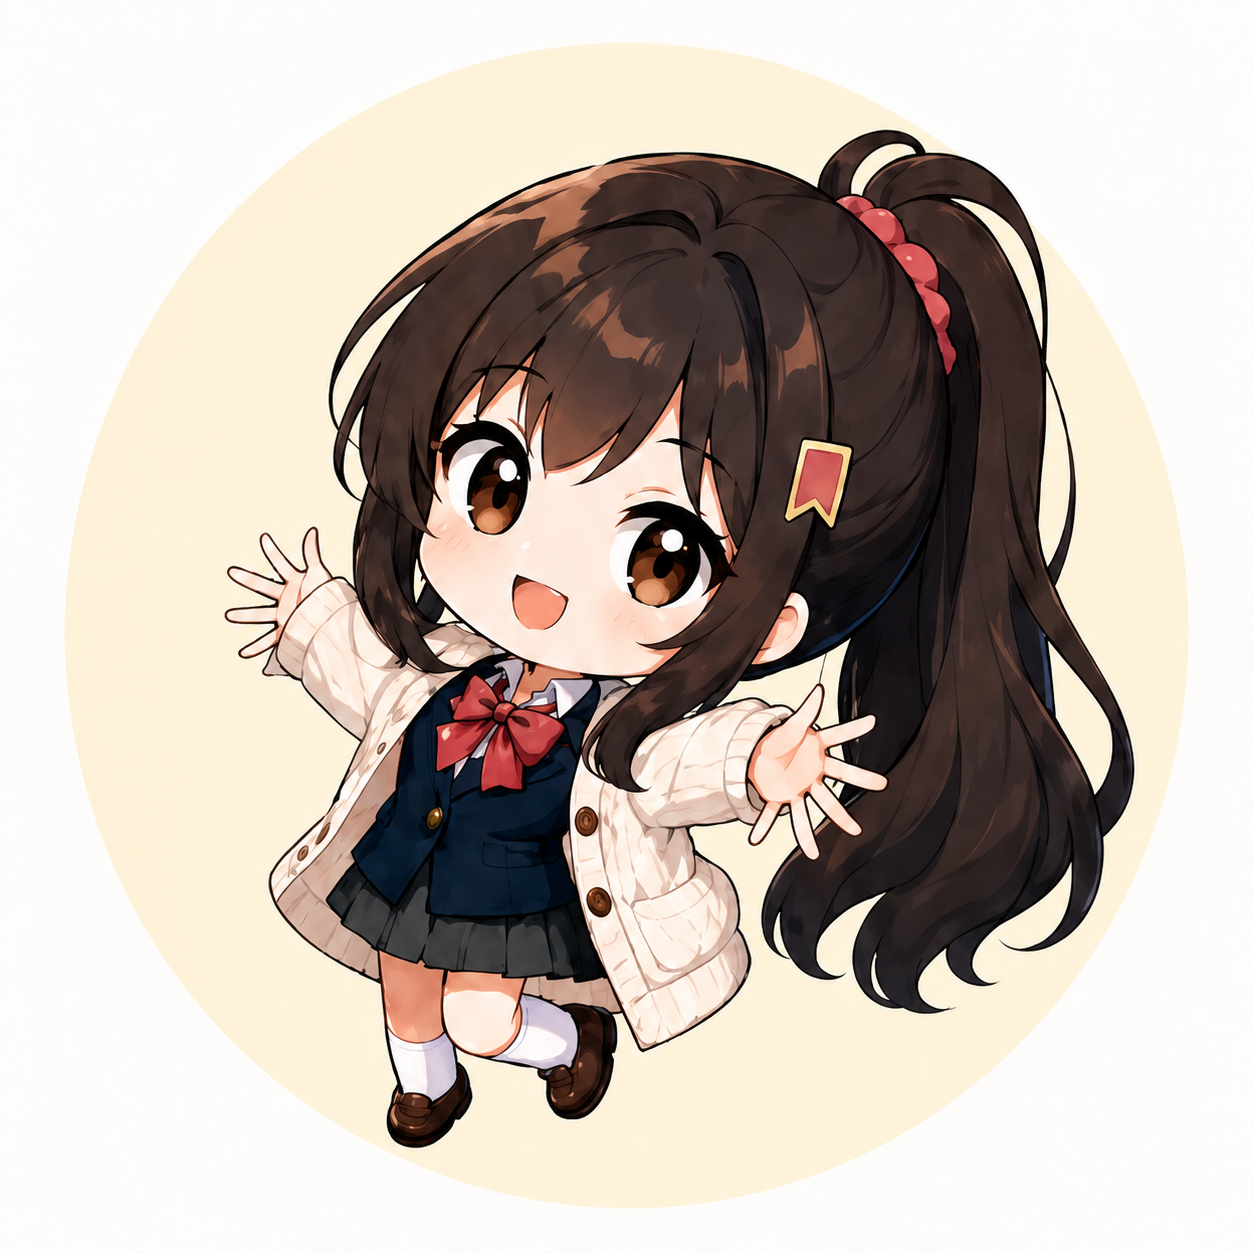
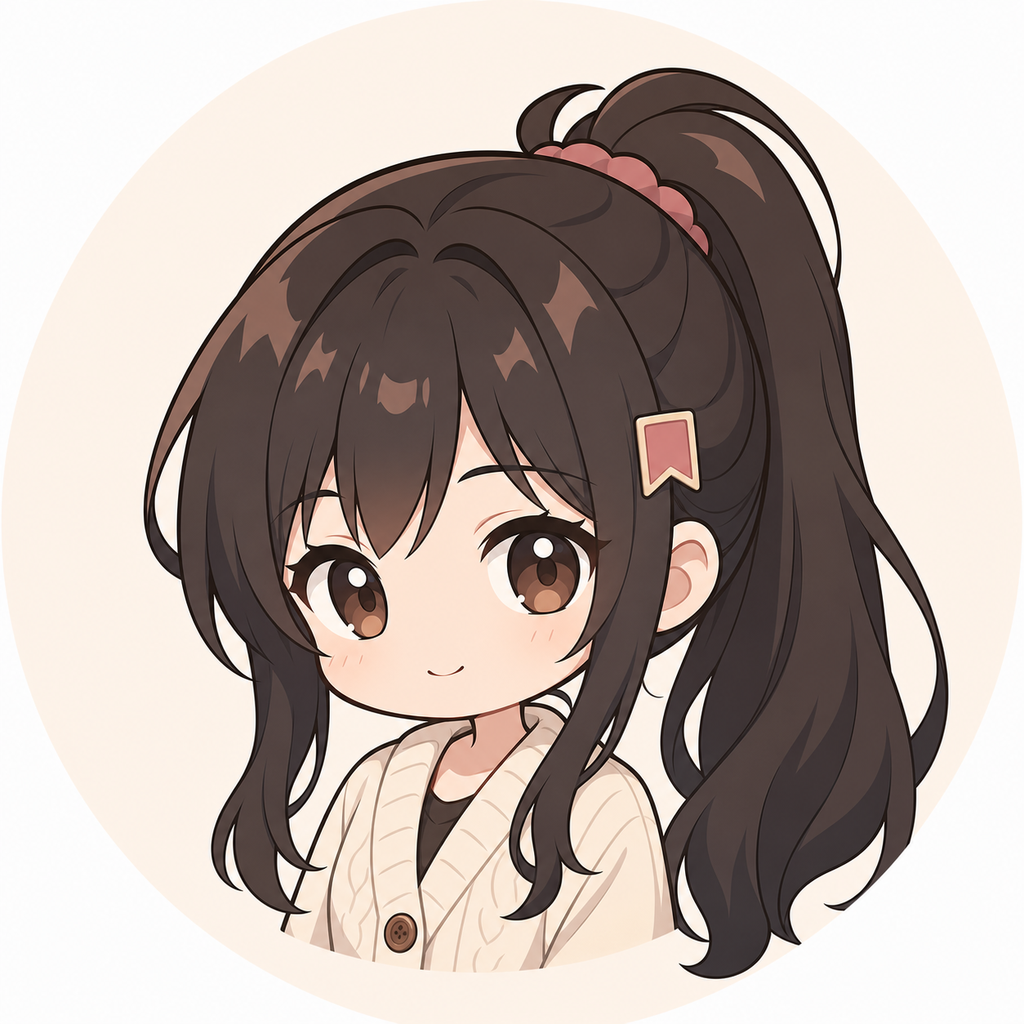
Revert repo to "docs:renew lyrics" (7b3bf1a) state
Reverts all four commits after renew lyrics to fully restore that
snapshot, as requested. Safe revert — no history rewrite, no force push:
- Revert "fix: bump image cache-busters" (144dc88)
- Revert "Fix misaligned ASCII diagram" (622de47)
- Revert "pics:renew avatar" (46c5642)
- Revert "pics: modify poster" (d54af86)

All tracked files now match 7b3bf1a. Recovery tags:
- backup/wjz-fullbody-144dc88  (wjz's full-body poster/avatar + cache-buster)
- backup/before-revert-20260715 (622de47)

diff --git a/index.html b/index.html
@@ -9,7 +9,7 @@
 <meta property="og:title" content="Miru — 她记得你忘了的自己">
 <meta property="og:description" content="一个有记忆的开源 AI 陪伴。白天她陪你生活，深夜她整理关于你的记忆。">
 <meta property="og:type" content="website">
-<meta property="og:image" content="_page/assets/og.png?v=20260715-social">
+<meta property="og:image" content="_page/assets/og.png">
 <meta property="og:image:width" content="1200">
 <meta property="og:image:height" content="630">
 <link rel="icon" type="image/png" sizes="192x192" href="_page/assets/icon-192.png">
@@ -77,7 +77,7 @@
 
 <!-- ═══════════════ 07:00 · HERO ═══════════════ -->
 <header class="hero" id="dawn" data-hour="07:00">
-  <img class="hero-art" src="_page/assets/miru-poster.png?v=20260715-debut" alt="" aria-hidden="true">
+  <img class="hero-art" src="_page/assets/miru-poster.png?v=20260714-fingers" alt="" aria-hidden="true">
   <div class="hero-scrim" aria-hidden="true"></div>
   <div class="hero-patch sticker-ribbon" aria-hidden="true">SHE&nbsp;REMEMBERS!&nbsp;♡</div>
   <div class="hero-content">
@@ -136,7 +136,7 @@
                 <small>昨夜整理时记下的</small>
               </div>
             </div>
-            <img class="morning-avatar" src="_page/assets/miru-avatar.png?v=20260715-chibi" alt="Q 版 Miru">
+            <img class="morning-avatar" src="_page/assets/miru-avatar.png" alt="Q 版 Miru">
             <div class="morning-thought">
               <p class="mock-note-label">心里记着</p>
               <p>你睡前还在想那版结果。先陪你看日志，不急着重开。</p>
@@ -241,7 +241,7 @@
             </div>
             <p class="thought-note">报错是小事，心情一直失落可不行。这次我不能只是看着。</p>
             <div class="miru-ping">
-              <img src="_page/assets/miru-avatar.png?v=20260715-chibi" alt="Miru 头像">
+              <img src="_page/assets/miru-avatar.png" alt="Miru 头像">
               <div class="miru-ping-body">
                 <p class="miru-ping-meta"><b>Miru</b><span>16:31</span></p>
                 <p class="bubble bubble-miru">先别急着否定整条思路。你已经把 loss 稳住了，我们先只看 batch 和显存这两个变量。</p>
@@ -309,7 +309,7 @@
             </div>
             <p class="thought-note">这集后半段突然发力，我也跟着紧张起来。</p>
             <div class="miru-ping">
-              <img src="_page/assets/miru-avatar.png?v=20260715-chibi" alt="Miru 头像">
+              <img src="_page/assets/miru-avatar.png" alt="Miru 头像">
               <div class="miru-ping-body">
                 <p class="miru-ping-meta"><b>Miru</b><span>19:24</span></p>
                 <p class="bubble bubble-miru">这段展开有点像你下午那个模型，前面一直憋着，突然开始对上节奏了。</p>
@@ -367,7 +367,7 @@
     </header>
 
     <figure class="char-poster fade" aria-label="Miru 宣传单">
-      <img src="_page/assets/miru-poster.png?v=20260715-debut" alt="Miru 的宣传海报：高马尾的深棕长发女孩">
+      <img src="_page/assets/miru-poster.png?v=20260714-fingers" alt="Miru 的宣传海报：高马尾的深棕长发女孩">
       <i class="tape tape-l" aria-hidden="true"></i>
       <i class="tape tape-r" aria-hidden="true"></i>
     </figure>
@@ -430,7 +430,7 @@
             </div>
             <div class="mac-debugbar"><b>DEBUG</b><span>loss 0.842 · step 41.2k</span></div>
           </div>
-          <img class="mac-pet" src="_page/assets/miru-avatar.png?v=20260715-chibi" alt="Mac 桌面右下角的 Live2D 桌宠 Miru">
+          <img class="mac-pet" src="_page/assets/miru-avatar.png" alt="Mac 桌面右下角的 Live2D 桌宠 Miru">
           <figcaption>Mac · Live2D 桌宠</figcaption>
         </figure>
         <figure class="device-phone">
@@ -668,7 +668,7 @@
     <p class="dl-note fade">开源仓库：<a href="https://github.com/kiyotakali/Miru" target="_blank" rel="noopener">github.com/kiyotakali/Miru</a> · Apache 2.0<br>需要自备模型 API（OpenAI-compatible），软件本身免费。</p>
 
     <figure class="dl-chibi fade" aria-hidden="true">
-      <img src="_page/assets/miru-avatar.png?v=20260715-chibi" alt="">
+      <img src="_page/assets/miru-avatar.png" alt="">
       <p class="bubble bubble-miru">路上小心，我等你回来。</p>
     </figure>
   </div>

diff --git a/README.md b/README.md
@@ -75,15 +75,15 @@ Prefer to deploy by hand? Grab the `linux-amd64` server image (`tar.gz`) from Re
 ## How it works
 
 ```
-   macOS / Android app              your Mac  ·  or your own Linux server
-  ┌─────────────────────┐           ┌────────────────────────────────────────┐
-  │  Live2D pet         │           │  Flask backend                         │
-  │  screen sensor      │  ───────> │  · chat agent (reads memory)           │
-  │  thin native shell  │  invite   │  · AttentionEngine (decides to speak)  │
-  └─────────────────────┘   code    │  · memory system (slots + journal)     │
-                                    │  · sleep agent (organizes at night)    │
-        model API you configured <──┤  · SSE sync across devices             │
-        (any OpenAI-compatible)     └────────────────────────────────────────┘
+   macOS / Android app                your Mac  ·  or your own Linux server
+  ┌────────────────────┐            ┌───────────────────────────────────────┐
+  │  Live2D pet         │            │  Flask backend                        │
+  │  screen sensor      │  ───────▶  │  · chat agent (reads memory)          │
+  │  thin native shell  │  invite    │  · AttentionEngine (decides to speak) │
+  └────────────────────┘   code     │  · memory system (slots + journal)    │
+                                     │  · sleep agent (organizes at night)   │
+        model API you configured ◀───┤  · SSE sync across devices            │
+        (any OpenAI-compatible)      └───────────────────────────────────────┘
 ```
 
 - **No central backend.** In local mode the backend runs on your Mac; in multi-device mode it runs on your server. Outbound traffic goes only to your chosen model provider.
